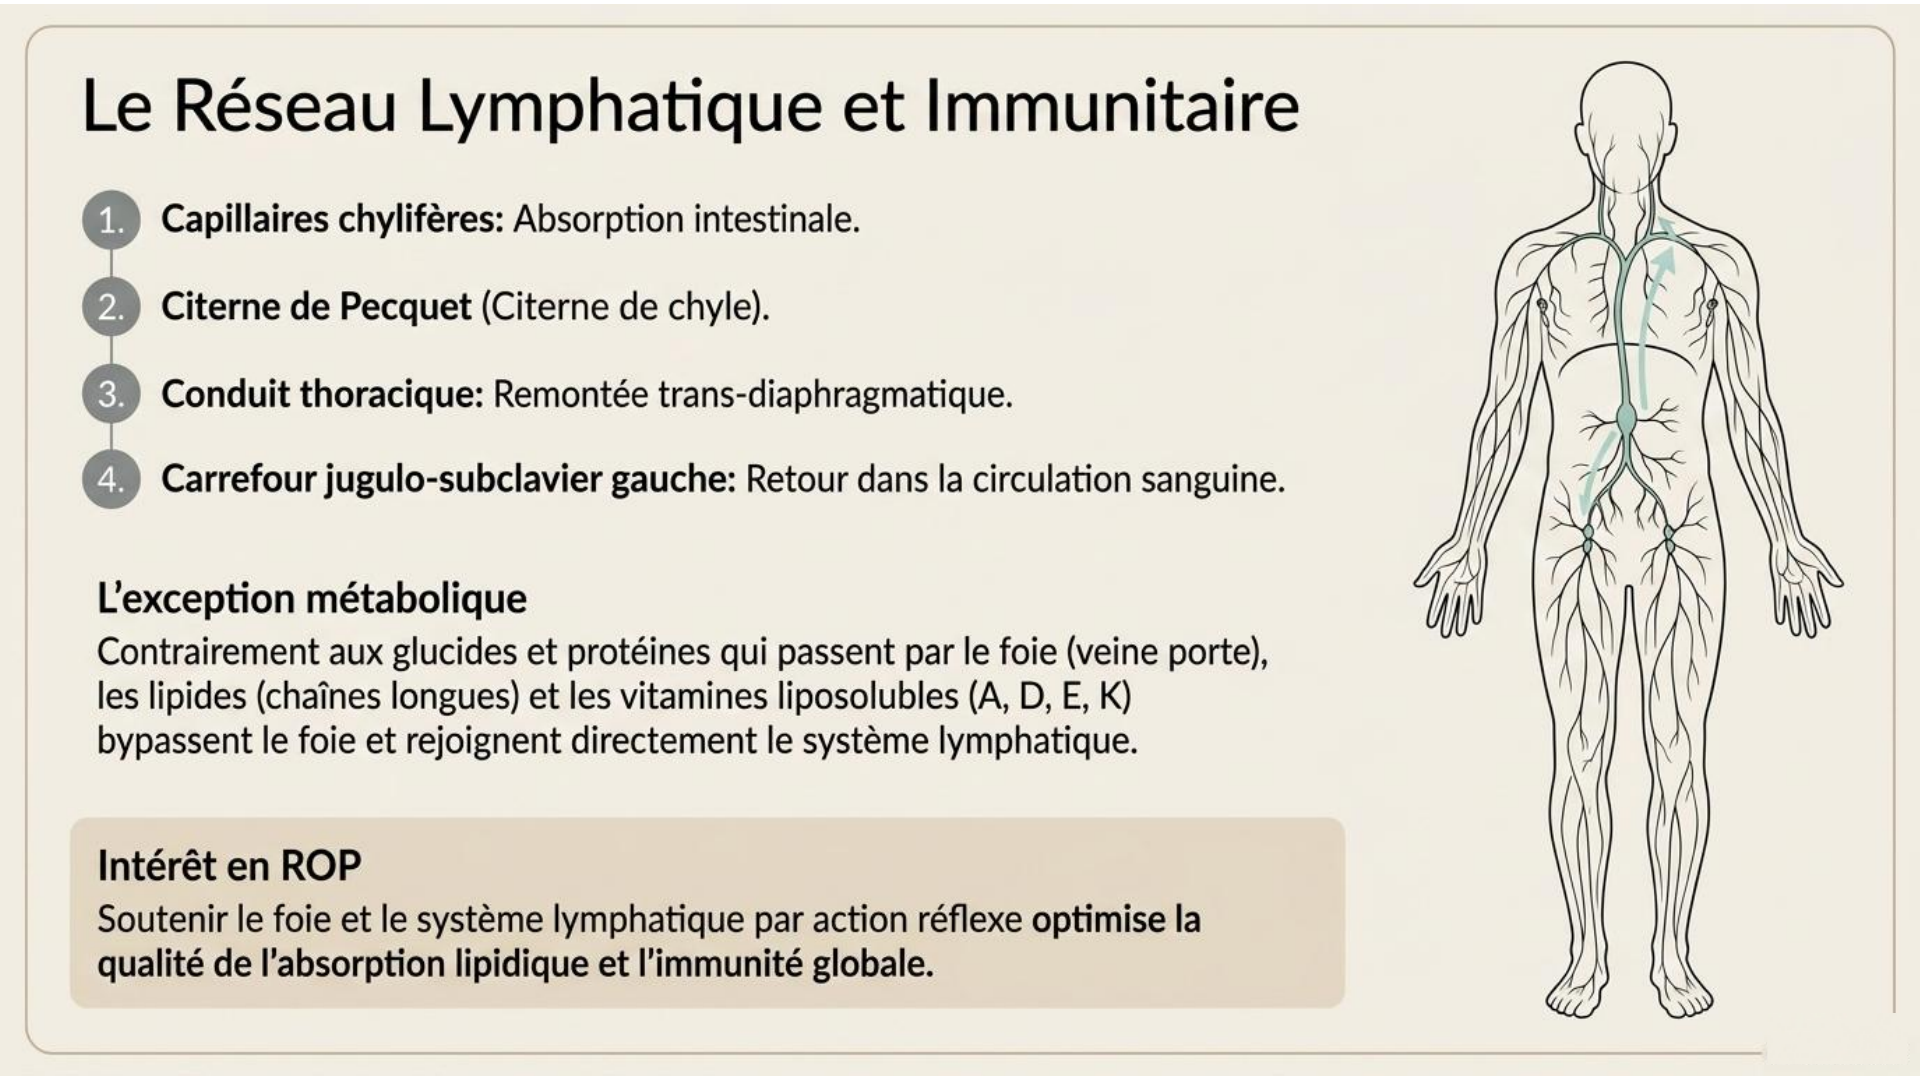
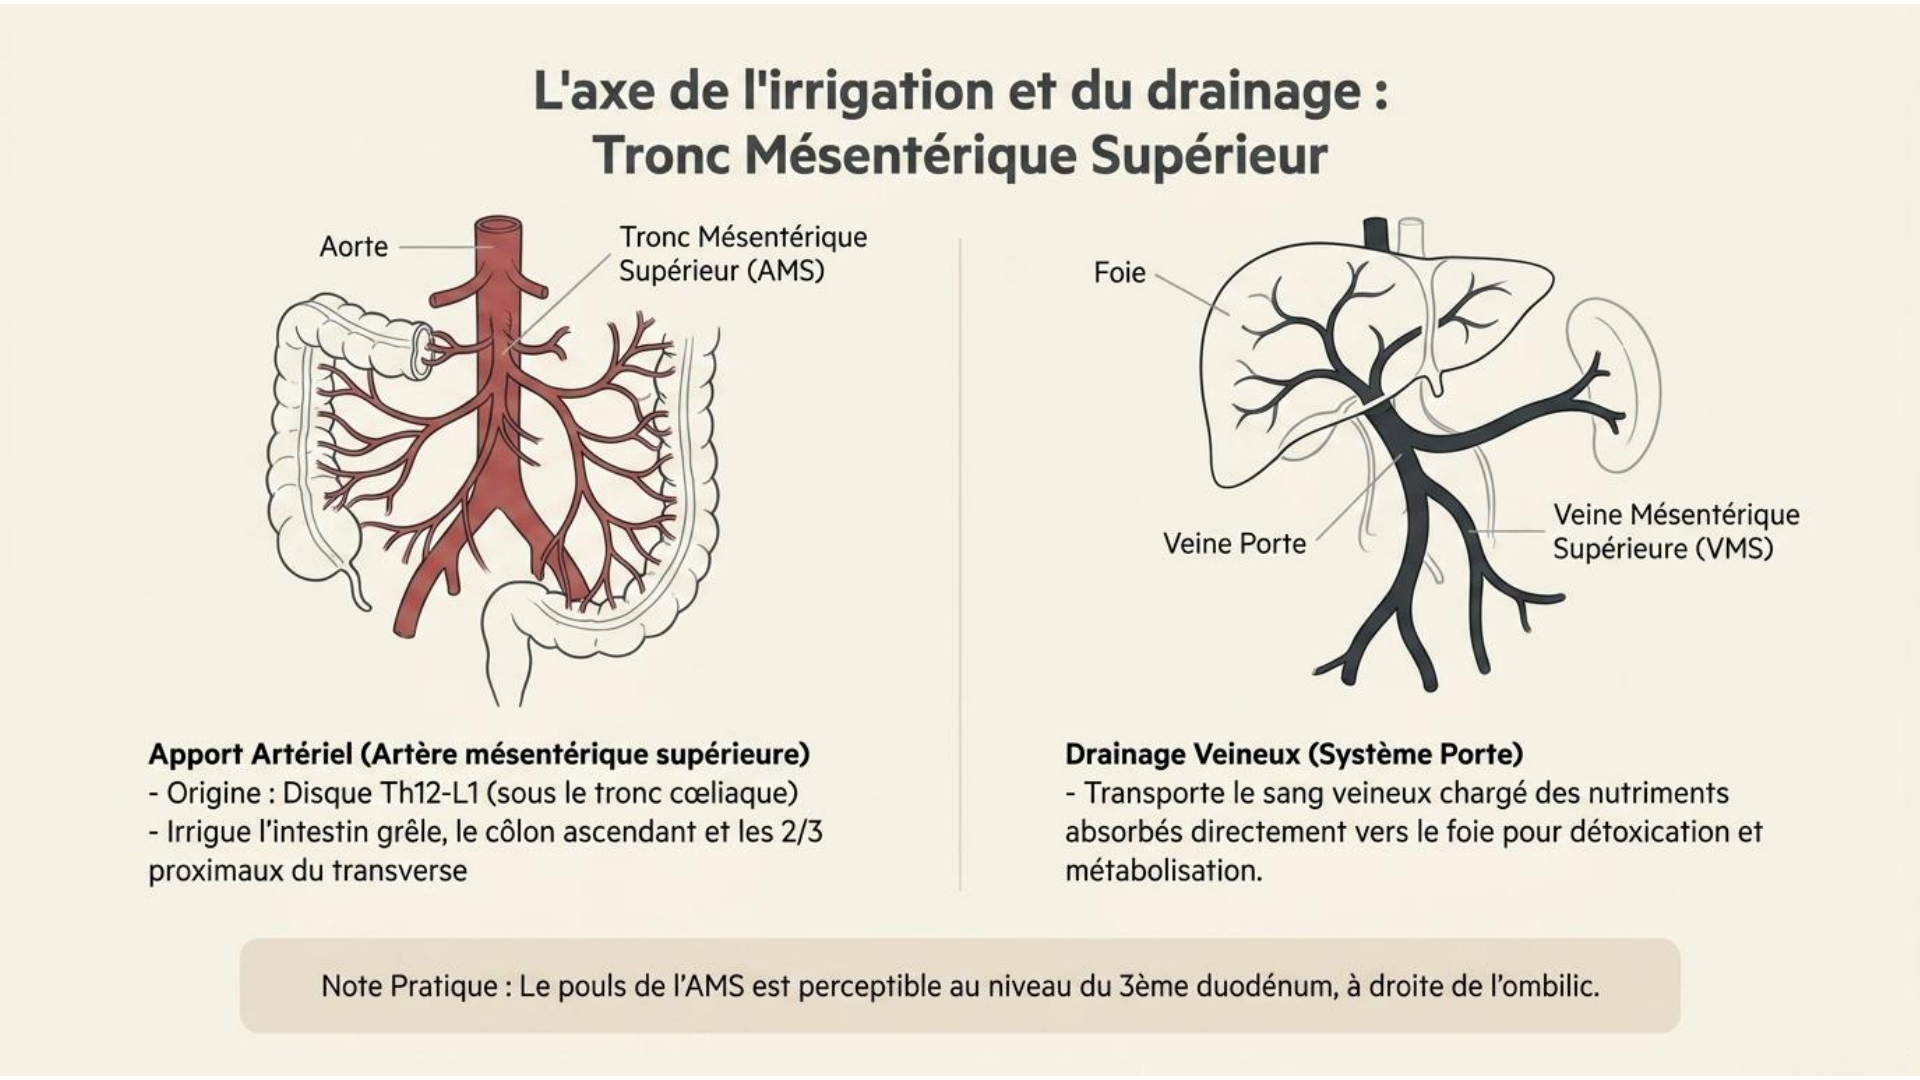
Fix Chapter 14 French slide 6 and 7 numbering

Changed region(s): [[0.0312, 0.0611, 0.9688, 0.9778], [0.5938, 0.4889, 0.6875, 0.5194]]

diff --git a/content/chapter14.slidesync.ts b/content/chapter14.slidesync.ts
@@ -26,8 +26,8 @@ export const chapter14Slides: SyncSlide[] = [
   { src: '/chapter-14/slides/fr-rework/slide-03.png', title: 'Le mésentère et sa mécanique de suspension' },
   { src: '/chapter-14/slides/fr-rework/slide-04.png', title: 'Suspension et mécanique intestinale' },
   { src: '/chapter-14/slides/fr-rework/slide-05.png', title: 'L’axe vasculaire et le système porte' },
-  { src: '/chapter-14/slides/fr-rework/slide-06.png', title: 'Le réseau lymphatique et immunitaire' },
-  { src: '/chapter-14/slides/fr-rework/slide-07.png', title: 'L’axe de l’irrigation et du drainage : tronc mésentérique supérieur' },
+  { src: '/chapter-14/slides/fr-rework/slide-06.png', title: 'L’axe de l’irrigation et du drainage : tronc mésentérique supérieur' },
+  { src: '/chapter-14/slides/fr-rework/slide-07.png', title: 'Le réseau lymphatique et immunitaire' },
   { src: '/chapter-14/slides/fr-rework/slide-08.png', title: 'La double réalité neurologique du péritoine' },
   { src: '/chapter-14/slides/fr-rework/slide-09.png', title: 'Le deuxième cerveau : autonomie du système nerveux entérique (SNE)' },
   { src: '/chapter-14/slides/fr-rework/slide-10.png', title: 'Le deuxième cerveau : système nerveux entérique' },
@@ -219,10 +219,9 @@ export const chapter14SlideAnchorsFr: SyncAnchor[] = [
   { sectionId: 'anatomie',       blockIndex: 2,  slide: 3 },
   { sectionId: 'anatomie',       blockIndex: 3,  slide: 4 },
   { sectionId: 'vascularisation', blockIndex: 2,  slide: 5 },
-  // Markers 6 and 7 swapped so each lead points to its own slide, with a
-  // half-page break after the "Veine mésentérique supérieure" paragraph (block 4).
-  { sectionId: 'vascularisation', blockIndex: 4,  slide: 7 },
-  { sectionId: 'vascularisation', blockIndex: 5,  slide: 6, gapBefore: 'half' },
+  { sectionId: 'vascularisation', blockIndex: 4,  slide: 6 },
+  // Half-page break after the "Veine mésentérique supérieure" paragraph (block 4).
+  { sectionId: 'vascularisation', blockIndex: 5,  slide: 7, gapBefore: 'half' },
   { sectionId: 'innervation',    blockIndex: 2,  slide: 8 },
   { sectionId: 'innervation',    blockIndex: 6,  slide: 9 },
   { sectionId: 'innervation',    blockIndex: 8,  slide: 10 },